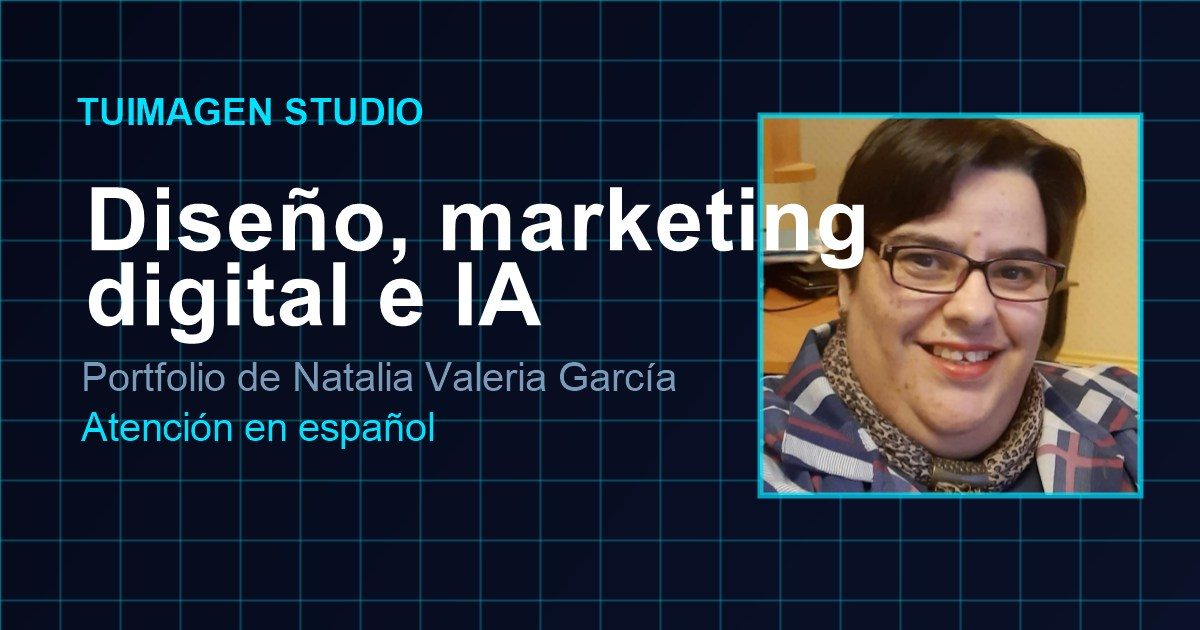
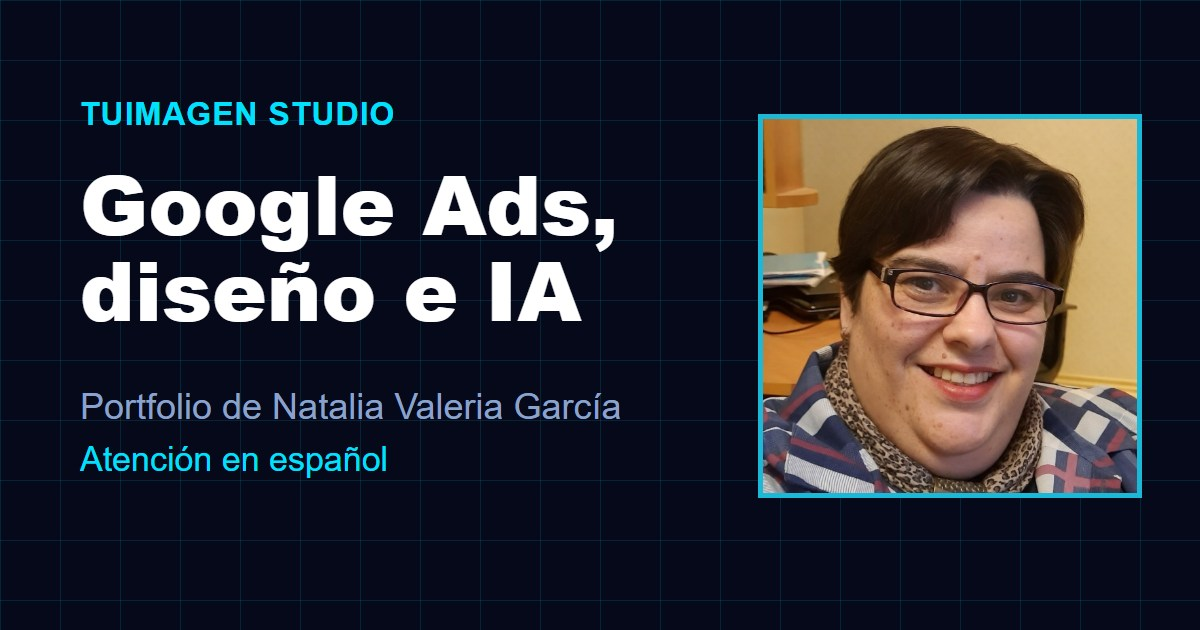
Portafolio: foto nueva sin caché y imagen para compartir actualizada
- La foto y su precarga llevan ?v=2 para saltar la caché del navegador
- og-preview.jpg (la tarjeta al compartir el link) con la foto retocada y el título de Google Ads

diff --git a/index.html b/index.html
@@ -13,16 +13,16 @@
 <meta property="og:url" content="https://portfolio.tuimagenstudios.com/">
 <meta property="og:site_name" content="Tuimagen Studio">
 <meta property="og:locale" content="es_AR">
-<meta property="og:image" content="https://portfolio.tuimagenstudios.com/assets/og-preview.jpg">
+<meta property="og:image" content="https://portfolio.tuimagenstudios.com/assets/og-preview.jpg?v=2">
 <meta property="og:image:alt" content="Tuimagen Studio: diseño, marketing digital e inteligencia artificial">
 <meta property="og:image:width" content="1200">
 <meta property="og:image:height" content="630">
 <meta name="twitter:card" content="summary_large_image">
 <meta name="twitter:title" content="Tuimagen Studio | Google Ads, Diseño e IA">
 <meta name="twitter:description" content="Publicidad en Google Ads, diseño gráfico y asistentes de WhatsApp con IA.">
-<meta name="twitter:image" content="https://portfolio.tuimagenstudios.com/assets/og-preview.jpg">
+<meta name="twitter:image" content="https://portfolio.tuimagenstudios.com/assets/og-preview.jpg?v=2">
 <meta name="twitter:image:alt" content="Tuimagen Studio: diseño, marketing digital e inteligencia artificial">
-<link rel="preload" as="image" href="assets/natalia-garcia.jpg">
+<link rel="preload" as="image" href="assets/natalia-garcia.jpg?v=2">
 <style>
 *{margin:0;padding:0;box-sizing:border-box}
 :root{
@@ -209,7 +209,7 @@ footer{text-align:center;padding:36px 0 0;color:var(--muted);font-size:0.75rem}
       </div>
     </div>
     <div class="photo-col">
-      <img src="assets/natalia-garcia.jpg" alt="Natalia García" width="148" height="148" decoding="async">
+      <img src="assets/natalia-garcia.jpg?v=2" alt="Natalia García" width="148" height="148" decoding="async">
       <div class="avail-badge">● Disponible</div>
     </div>
   </section>
